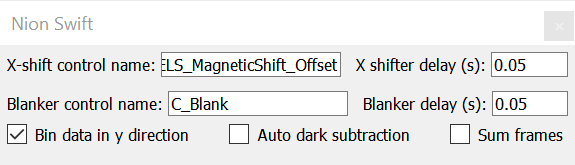
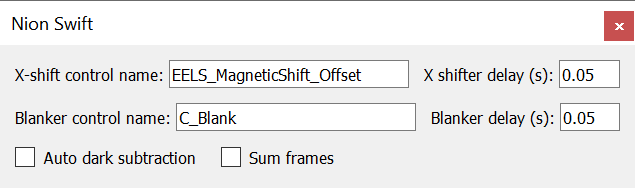
Update documentation and UI labels.

diff --git a/nionswift_plugin/nion_instrumentation_ui/MultiAcquirePanel.py b/nionswift_plugin/nion_instrumentation_ui/MultiAcquirePanel.py
@@ -127,7 +127,7 @@ class MultiAcquirePanelDelegate:
     def __init__(self, api):
         self.__api = api
         self.panel_id = 'MultiAcquire-Panel'
-        self.panel_name = 'Multi-Acquire'
+        self.panel_name = 'MultiAcquire'
         self.panel_positions = ['left', 'right']
         self.panel_position = 'right'
         self.api = api
@@ -275,9 +275,10 @@ class MultiAcquirePanelDelegate:
                 display_item.append_display_data_channel_for_data_item(data_item._data_item if data_item else new_data_item._data_item)
                 start_ev = data_dict['parameter_list'][i]['start_ev']
                 end_ev = data_dict['parameter_list'][i]['end_ev']
-                display_layers.append({'label': '#{:d}: {:g}-{:g} eV, {:g}x{:g} ms{}'.format(index+1,
+                display_layers.append({'label': '#{:d}: {:g}-{:g}{}, {:g}x{:g} ms{}'.format(index+1,
                                                                                             start_ev,
                                                                                             end_ev,
+                                                                                            units_str,
                                                                                             number_frames,
                                                                                             exposure_ms,
                                                                                             summed),
@@ -543,11 +544,10 @@ QPushButton:hover {
         parameter_description_row.add_spacing(5)
         parameter_description_row.add(ui.create_label_widget('#'))
         parameter_description_row.add_spacing(20)
-        parameter_description_row.add(ui.create_label_widget('X Offset'))
-        parameter_description_row.add_spacing(25)
+        parameter_description_row.add(ui.create_label_widget('Offset'))
+        parameter_description_row.add_spacing(36)
         parameter_description_row.add_stretch()
         parameter_description_row.add(ui.create_label_widget('Exposure (ms)'))
-        parameter_description_row.add_spacing(25)
         parameter_description_row.add_stretch()
         parameter_description_row.add(ui.create_label_widget('Frames'))
         parameter_description_row.add_spacing(5)
@@ -565,14 +565,17 @@ QPushButton:hover {
         add_remove_parameters_row.add(add_parameters_button)
         add_remove_parameters_row.add_spacing(5)
         add_remove_parameters_row.add(remove_parameters_button)
-        add_remove_parameters_row.add_spacing(20)
-        add_remove_parameters_row.add_stretch()
-
-        progress_row = ui.create_row_widget()
-        progress_row.add_spacing(180)
+        add_remove_parameters_row.add_spacing(90)
+        # add_remove_parameters_row.add_stretch()
         self.progress_bar = ui.create_progress_bar_widget()
-        progress_row.add(self.progress_bar)
-        progress_row.add_spacing(5)
+        add_remove_parameters_row.add(self.progress_bar)
+        add_remove_parameters_row.add_spacing(5)
+
+        # progress_row = ui.create_row_widget()
+        # progress_row.add_spacing(180)
+        # self.progress_bar = ui.create_progress_bar_widget()
+        # progress_row.add(self.progress_bar)
+        # progress_row.add_spacing(5)
 
         time_estimate_row = ui.create_row_widget()
         time_estimate_row.add_spacing(6)
@@ -591,9 +594,9 @@ QPushButton:hover {
             self.__scan_frame_parameters_changed_event_listener = self.scan_controller.frame_parameters_changed_event.listen(frame_parameters_changed)
         self.update_camera_list()
 
-        self.start_button = ui.create_push_button_widget('Start Multi-Acquire')
+        self.start_button = ui.create_push_button_widget('Start MultiAcquire')
         self.start_button.on_clicked = start_clicked
-        self.start_si_button = ui.create_push_button_widget('Start Multi-Acquire spectrum image')
+        self.start_si_button = ui.create_push_button_widget('Start MultiAcquire spectrum image')
         self.start_si_button.on_clicked = start_si_clicked
         start_row = ui.create_row_widget()
         start_row.add_spacing(5)
@@ -606,9 +609,9 @@ QPushButton:hover {
         column = ui.create_column_widget()
         column.add_spacing(5)
         column.add(camera_choice_row)
-        column.add_spacing(5)
-        column.add(change_parameters_row)
         column.add_spacing(10)
+        column.add(change_parameters_row)
+        column.add_spacing(5)
         column.add(parameter_description_row)
         column.add_spacing(10)
         self.parameter_column = ui.create_column_widget()
@@ -618,13 +621,13 @@ QPushButton:hover {
         column.add(self.parameter_column)
         column.add_spacing(5)
         column.add(add_remove_parameters_row)
-        column.add_spacing(5)
-        column.add(progress_row)
-        column.add_spacing(10)
+        # column.add_spacing(5)
+        # column.add(progress_row)
+        column.add_spacing(15)
         column.add(time_estimate_row)
         column.add_spacing(5)
         column.add(start_row)
-        column.add_spacing(5)
+        column.add_spacing(10)
         column.add_stretch()
         # Make sure the binning combo box shows the actual settings
         self.update_binning_combo_box()
@@ -788,9 +791,9 @@ QPushButton:hover {
                 row2 = self.ui.create_row_widget()
                 row3 = self.ui.create_row_widget()
 
-                x_shifter_label = self.ui.create_label_widget('X-shift control name: ')
+                x_shifter_label = self.ui.create_label_widget('Offset control name: ')
                 x_shifter_field = self.ui.create_line_edit_widget(properties={'min-width': 160})
-                x_shift_delay_label = self.ui.create_label_widget('X shifter delay (s): ')
+                x_shift_delay_label = self.ui.create_label_widget('Offset delay (s): ')
                 x_shift_delay_field = self.ui.create_line_edit_widget(properties={'min-width': 40})
                 auto_dark_subtract_checkbox = self.ui.create_check_box_widget('Auto dark subtraction ')
                 sum_frames_checkbox = self.ui.create_check_box_widget('Sum frames')

diff --git a/docs/userguide.rst b/docs/userguide.rst
@@ -62,50 +62,56 @@ The resulting data will be a collection (one dimension) of your selected data ty
 
 Using the Multi-Acquire Panel
 -----------------------------
-A Nion Swift plug-in that acquires and displays multiple EEL spectra with different energy offsets.
+
+This plugin allows you to acquire series of images/spectra or whole synchronized scans with multiple offsets and exposure settings.
 
 Main window
-+++++++++++
+^^^^^^^^^^^
+
 Get the plug-in main window by selecting it from the "Window" menu.
 
 .. image:: resources/multi_acquire_main_window.png
+   :width: 350
 
-This plugin allows you to acquire series of EEL spectra with multiple energy offsets and exposure settings. The acquisitions can
-be set up with the table in the main window. Every spectrum corresponds to one line. Use the "+" and "-" buttons to add or remove
-lines. The first column shows the spectrum number, which will also be added to the titles of the result data items.
-You have the option to acquire the programmed sequence of spectra as individual spectra or as spectrum images by clicking
-either on "Start Multi-Acquire" or "Start Multi-Acquire spectrum image".
-Note that for individual spectra, the progress bar will only update once per spectrum (i.e. if only one spectrum is defined it will jump
-straight from 0 to 100%). For spectrum images, the progress bar will update once per acquired line of a spectrum image.
-The times shown above the two "start" buttons are the estimated acquisition times for the two modes.
+The acquisitions can be set up with the table in the main window. Each returned data item corresponds to one line in the configuration table.
+Use the "+" and "-" buttons to add or remove lines. The first column shows the data item number, which will also be added to
+the titles of the results. You have the option to acquire the programmed sequence as individual spectra/images or
+as spectrum images/4D images by clicking either on *Start MultiAcquire* or *Start MultiAcquire spectrum image*.
+Note that for individual spectra/images, the progress bar will only update once per line in the configuration table (i.e. if only one spectrum is defined it will jump
+straight from 0 to 100%). For spectrum images/4D images, the progress bar will update once per acquired line of a spectrum image.
+The left dropdown menu at the top of the main window lets you select the camera that is used to acquire the data.
+The right dropdown menu lets you select between different output styles for the acquired data:
 
+- *Spectra:* Bins the camera frames in y-direction which results in spectra or spectrum images being returned.
+- *Images:* Returns the full camera frames which results in images or 4D data sets being returned.
+- *MultiEELS Spectra:* Also bins the camera frames in y-direction but additionally calibrates the returned data
+  in e\ :sup:`-`\ /eV/s. If you are not acquiring a spectrum image, this mode will also create one additional data
+  item that contains all acquired spectra as multiple line plots (see image below for an example).
 
-Settings Window
-+++++++++++++++
-You can access the settings menu via the "Settings..." button in the top-right corner of the main window.
-
-.. image:: resources/multi_acquire_settings_window.png
-
-In order to set the energy offsets, the plugin needs to know which control it has to change in AS2. Type the name of
-this control into the "X-shift control name" field. If the field is empty, x-shifts are disabled, regardless of what
-is configured in the main window.
-The checkboxes in the bottom row allow you to configure how the data will be returned:
-
-* "Bin data in y-direction" will sum the images in vertical direction to obtain spectra.
-* "Auto dark subtraction" will blank the beam after the acquisition is finished and repeat it (with the exact same settings). This data will be then be used as dark images for the actual data.
-  Make sure "Blanker control name" is set correctly, otherwise this mode will fail. Note that this settings has no effect for spectrum images as it will always be deactivated in this mode.
-* "Sum frames" will sum all frames that were acquired for each spectrum (as specified by the column "frames" in the main window). If this is off, the plug-in will return a stack for each spectrum.
-
-Output
-++++++
-The plug-in will create one result data item per spectrum. These data items can be either single spectra, single images,
-stacks of spectra or stacks of images, depending on the settings. When you are acquring spectrum images, the result data items
-will be either single spectrum images, single 4D images, stacks of spectrum images or stacks of 4d images.
-Additionaly the plug-in will create a data item that contains all acquired spectra as multiple line plots.
-This last data item will only be created if "Bin data in y-direction"
-is selected in the settings window and if you are not acquiring spectrum images.
+The plug-in will always create one result data item per line in the configuration table. If *frames* is larger than 1,
+the corresponding result data item will be a stack of the data type that is configured via the dropdown menu.
 
 .. image:: resources/multi_acquire_output_stacked.png
+
+Settings Window
+^^^^^^^^^^^^^^^
+
+.. |gear| unicode:: U+26ED .. gear without hub
+
+You can access the settings menu via the "|gear|" button in the top-right corner of the main window.
+
+.. image:: resources/multi_acquire_settings_window.png
+   :width: 500
+
+In order to set the offsets, the plugin needs to know which control it has to change in AS2. Type the name of
+this control into the *Offset control name* field. If the field is empty, offsets are disabled, regardless of what
+is configured in the main window.
+
+The checkboxes in the bottom row allow you to configure how the data will be returned:
+
+- *Auto dark subtraction* will blank the beam after the acquisition is finished and repeat it (with the exact same settings). This data will be then be used as dark images for the actual data.
+  Make sure *Blanker control name* is set correctly, otherwise this mode will fail. Note that this settings has no effect for spectrum images as it will always be deactivated in this mode.
+- *Sum frames* will sum all frames that were acquired for each spectrum (as specified by the column *frames* in the main window). If this is off, the plug-in will return a stack for each spectrum.
 
 .. _multiple-shift-acquire-panel:
 
